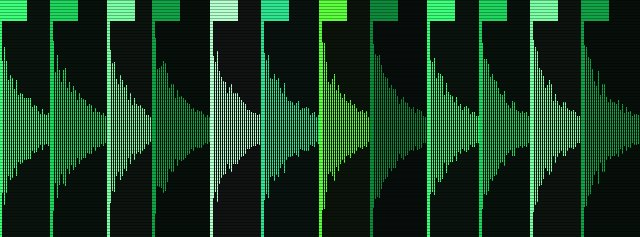
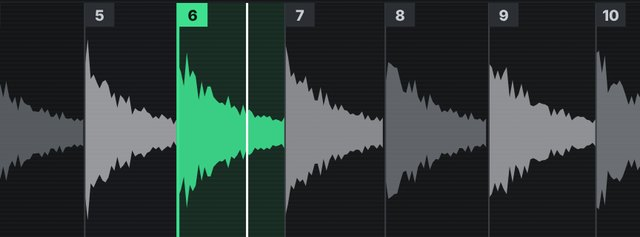
Website: Splinter in graphite with sleek green accents
The Splinter design moves from black and green to neutral graphite and
silver, with green kept for what's selected or switched on: the selected
chop and pad, the playing pad, the chosen era, knob values, the type label
and a fine line along the top. FLIP is a dark button with a green edge.

The Splinter page takes the new screenshot and a graphite theme (white
wordmark, green for small labels and links), a new social image, and copy
that no longer says the pads match the waveform's colours. The homepage
rack unit's name is white with a green status light, over silver chops
with the selected one in green.

Claude-Session: https://claude.ai/code/session_01D2tYPZDwenNEd5JoU51Zf3

diff --git a/website/assets/site.css b/website/assets/site.css
@@ -816,8 +816,8 @@ footer a:hover { color: var(--text); }
 .u-bundle-fx       { --face: #141217; --ink: #f2eef8; --sub: #b0a6bf; --led: #ff9a3c; }
 .u-bundle-complete { --face: #151215; --ink: #f4f2f0; --sub: #b3a9ae; --led: #ff2878; }
 .rack-bundle-unit .unit-shot { opacity: .85; -webkit-mask-image: linear-gradient(90deg, transparent, #000 14%); mask-image: linear-gradient(90deg, transparent, #000 14%); }
-.u-splinter { --face: #070908; --ink: #e6f2e8; --sub: #86a08c; --led: #3dff7a; }
-.u-splinter .unit-name { color: #3dff7a; }
+.u-splinter { --face: #0e0f10; --ink: #f3f4f5; --sub: #8e9399; --led: #3ee08f; }
+.u-splinter .unit-led { opacity: .9; box-shadow: 0 0 8px rgba(62, 224, 143, .7); }
 .u-splinter .unit-price { color: var(--sub); font-weight: 600; }
 
 .rack-bundle {
@@ -927,27 +927,28 @@ body.site {
 /* A price that is not set yet stays out of the layout */
 .unit-price[hidden] { display: none; }
 
-/* Splinter: black and green, with faint scanlines */
+/* Splinter: graphite and silver, with sleek green accents for what's selected or switched on */
 .theme-splinter {
-  --bg: #070908; --panel: #0d120e; --line: #1c2a1f; --text: #e6f2e8; --muted: #86a08c; --soft: #c4d8c8;
-  --teal: #3dff7a; --amber: #b6ffcf; --on-accent: #04140a; --accent-hover: #7dffa8;
-  --well: #0a0f0b; --axis: #1b2a1e; --chip: rgba(13, 18, 14, .75); --code-bg: #101a12;
-  --glow: rgba(61, 255, 122, .10); --glow2: rgba(18, 163, 71, .08);
+  --bg: #0b0c0d; --panel: #121315; --line: #222428; --text: #eceef0; --muted: #8e9399; --soft: #c9cdd2;
+  --teal: #3ee08f; --amber: #c9cdd2; --on-accent: #06150d; --accent-hover: #6ee9aa;
+  --well: #0e0f11; --axis: #24272b; --chip: rgba(18, 19, 21, .75); --code-bg: #17191c;
+  --glow: rgba(255, 255, 255, .035); --glow2: rgba(62, 224, 143, .05);
 }
 .theme-splinter .hero::before {
   background:
-    repeating-linear-gradient(0deg, rgba(61, 255, 122, .03) 0 1px, transparent 1px 3px),
-    radial-gradient(ellipse 42% 60% at 78% 42%, rgba(61, 255, 122, .13), transparent 70%),
-    linear-gradient(180deg, #070908 0%, #0a0f0b 100%);
+    radial-gradient(ellipse 42% 60% at 78% 42%, rgba(255, 255, 255, .045), transparent 70%),
+    radial-gradient(ellipse 30% 30% at 74% 30%, rgba(62, 224, 143, .06), transparent 70%),
+    linear-gradient(180deg, #0b0c0d 0%, #0e0f11 100%);
 }
 .theme-splinter .hero::after {
-  content: ""; position: absolute; left: 0; right: 0; top: 0; height: 3px;
-  background: linear-gradient(90deg, #12a347, #3dff7a 55%, #b6ffcf);
+  content: ""; position: absolute; left: 0; right: 0; top: 0; height: 2px;
+  background: linear-gradient(90deg, #3ee08f, rgba(62, 224, 143, .35) 28%, transparent 60%);
 }
-.theme-splinter .wordmark { color: #3dff7a; font-stretch: 112%; letter-spacing: 0.04em; font-size: clamp(2.6rem, 6.8vw, 5rem); text-shadow: 0 0 34px rgba(61, 255, 122, .35); }
+.theme-splinter .kicker { color: #3ee08f; }
+.theme-splinter .wordmark { color: #f3f4f5; font-stretch: 112%; letter-spacing: 0.04em; font-size: clamp(2.6rem, 6.8vw, 5rem); }
 .theme-splinter .wordmark small { font-size: clamp(0.85rem, 0.24em, 1.2rem); }
-.theme-splinter .wordmark small { color: var(--muted); text-shadow: none; }
-.theme-splinter .hero-shot img { box-shadow: 0 30px 80px rgba(0, 0, 0, .6), 0 0 0 1px #1c2a1f, 0 0 70px rgba(61, 255, 122, .08); }
+.theme-splinter .wordmark small { color: var(--muted); }
+.theme-splinter .hero-shot img { box-shadow: 0 30px 80px rgba(0, 0, 0, .6), 0 0 0 1px #26292d, 0 0 70px rgba(62, 224, 143, .05); }
 .shot-caption { margin-top: 12px; font-size: 0.82rem; color: var(--muted); text-align: center; }
 .feature-grid { row-gap: 36px; }
 .feature-grid div:nth-child(3) h3::before { background: var(--teal); }
@@ -960,5 +961,5 @@ body.site {
 .steps p { color: var(--muted); margin-top: 8px; }
 .spec-two tbody th { width: 26%; }
 @media (max-width: 640px) { .spec-two tr { grid-template-columns: 1fr; } }
-.u-splinter[href]:hover .unit-name { text-shadow: 0 0 18px rgba(61, 255, 122, .5); }
-.rack-soon .rack-head p a { color: #3dff7a; white-space: nowrap; }
+.u-splinter[href]:hover .unit-name { text-shadow: 0 0 16px rgba(62, 224, 143, .35); }
+.rack-soon .rack-head p a { color: #3ee08f; white-space: nowrap; }

diff --git a/website/splinter/index.html b/website/splinter/index.html
@@ -54,7 +54,7 @@
         </ul>
       </div>
       <figure class="hero-shot">
-        <img src="../assets/splinter-ui.png" width="2400" height="1520" alt="An early design of the Splinter sampler window in black and green: a sample waveform cut into sixteen numbered chops, a four-by-four grid of pads, the controls for the selected pad with an Era switch reading Clean, 12-bit grit, Vintage 26k and Dusty, and a large Flip button above a step pattern and a box reading Drag MIDI into your DAW.">
+        <img src="../assets/splinter-ui.png" width="2400" height="1520" alt="An early design of the Splinter sampler window in graphite with green accents: a sample waveform cut into sixteen numbered silver chops with chop 6 selected in green, a four-by-four grid of pads, the controls for the selected pad with an Era switch reading Clean, 12-bit grit, Vintage 26k and Dusty, and a large Flip button with a green edge above a step pattern and a box reading Drag MIDI into your DAW.">
         <figcaption class="shot-caption">Early design. The finished plugin may look different.</figcaption>
       </figure>
     </div>
@@ -104,7 +104,7 @@
       <ol class="principles steps">
         <li>
           <h3>Chop</h3>
-          <p>Load a sample. The chops land on the hits and the pads light up in the same colours as the waveform.</p>
+          <p>Load a sample. The chops land on the hits, one to a pad, and the pad you pick lights up with its chop on the waveform.</p>
         </li>
         <li>
           <h3>Flip</h3>
